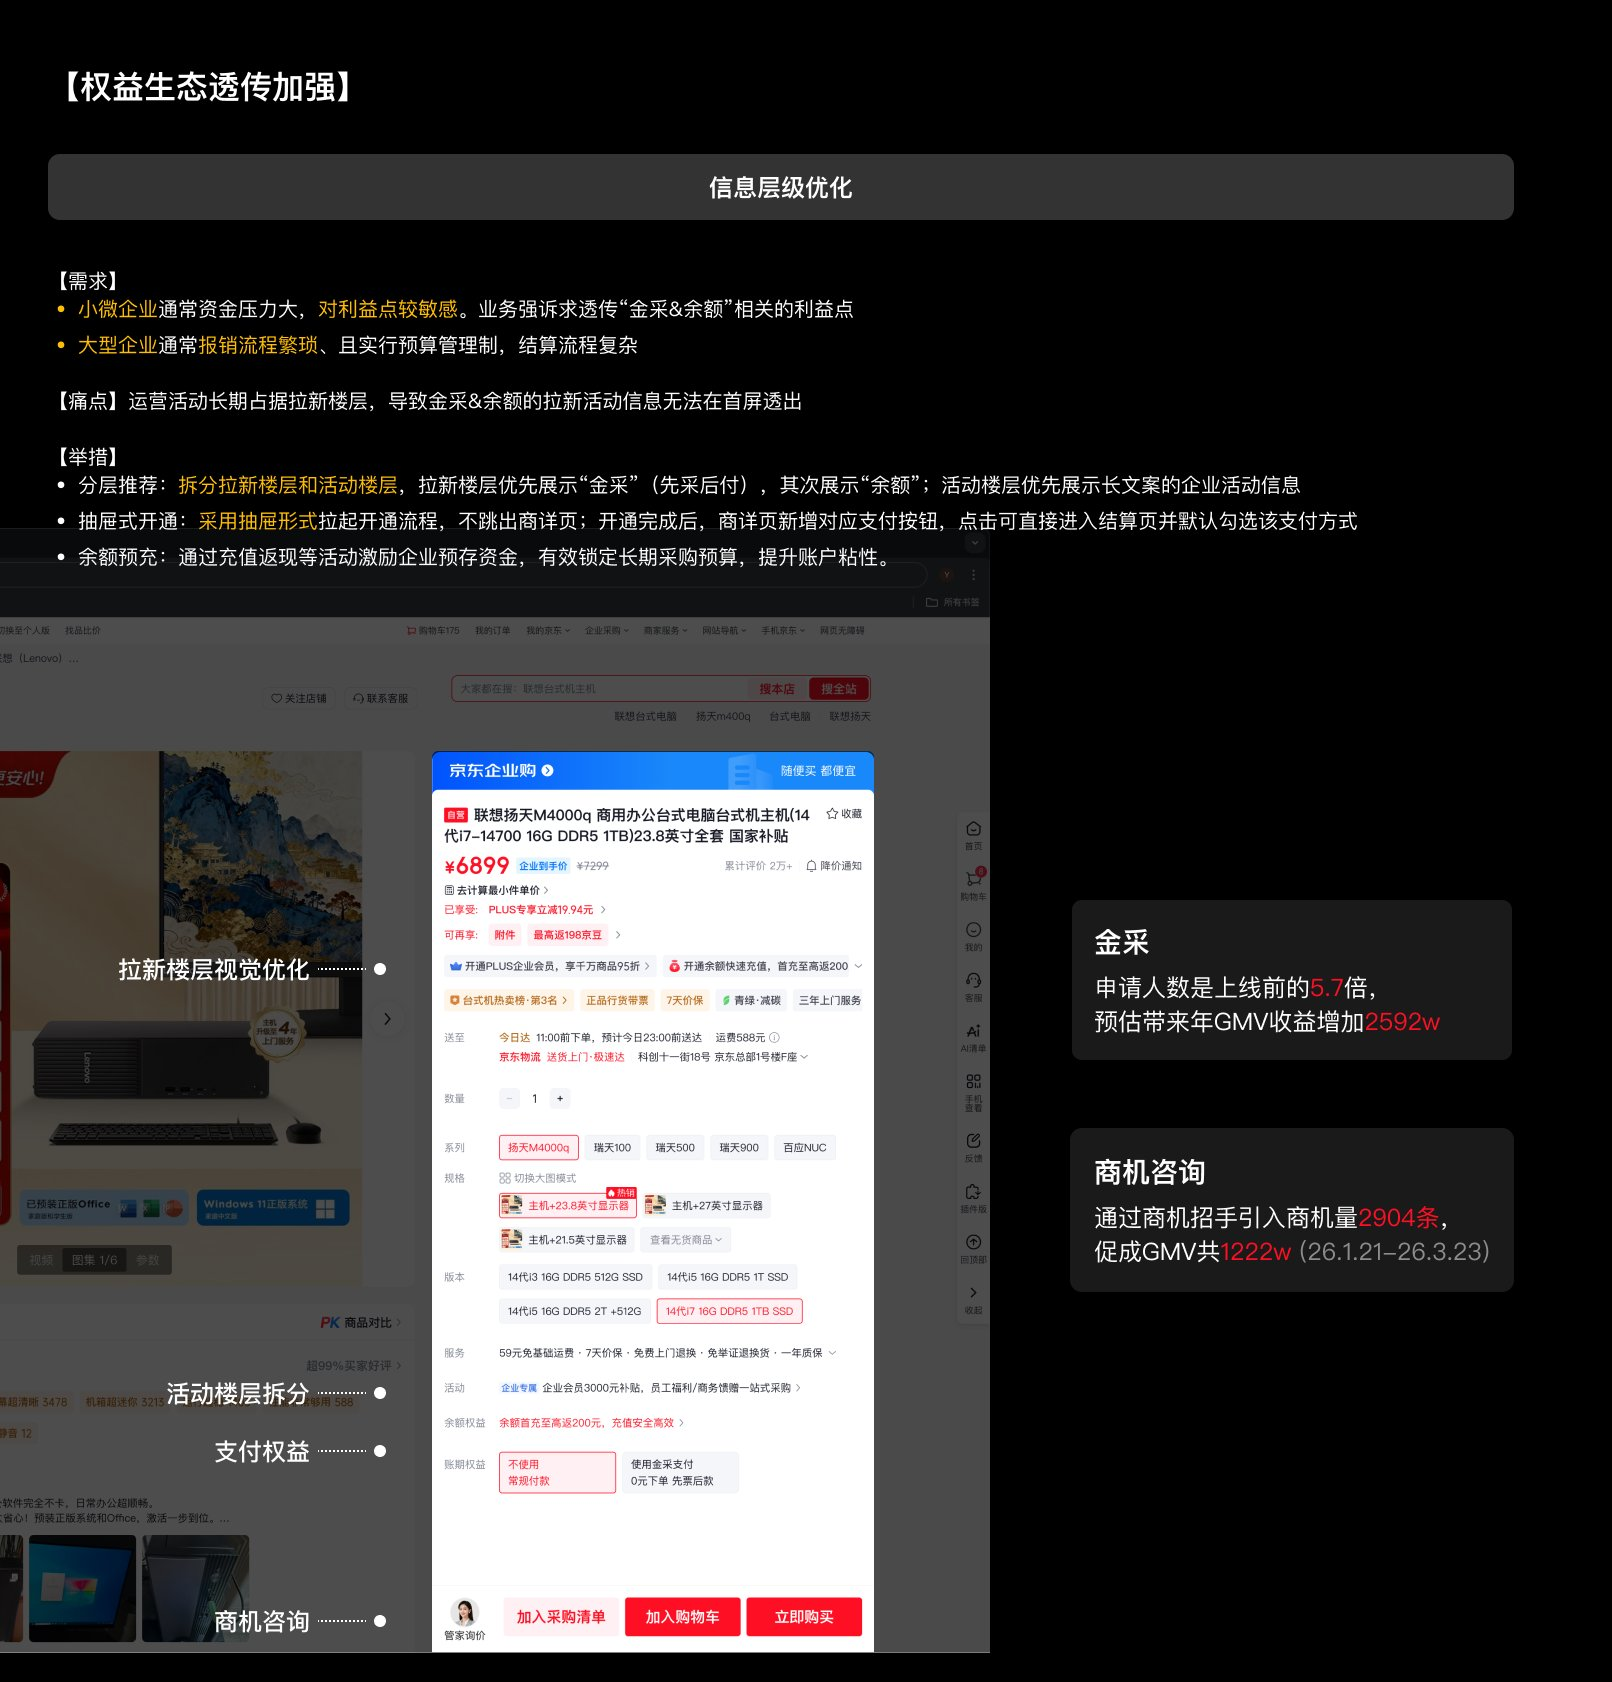
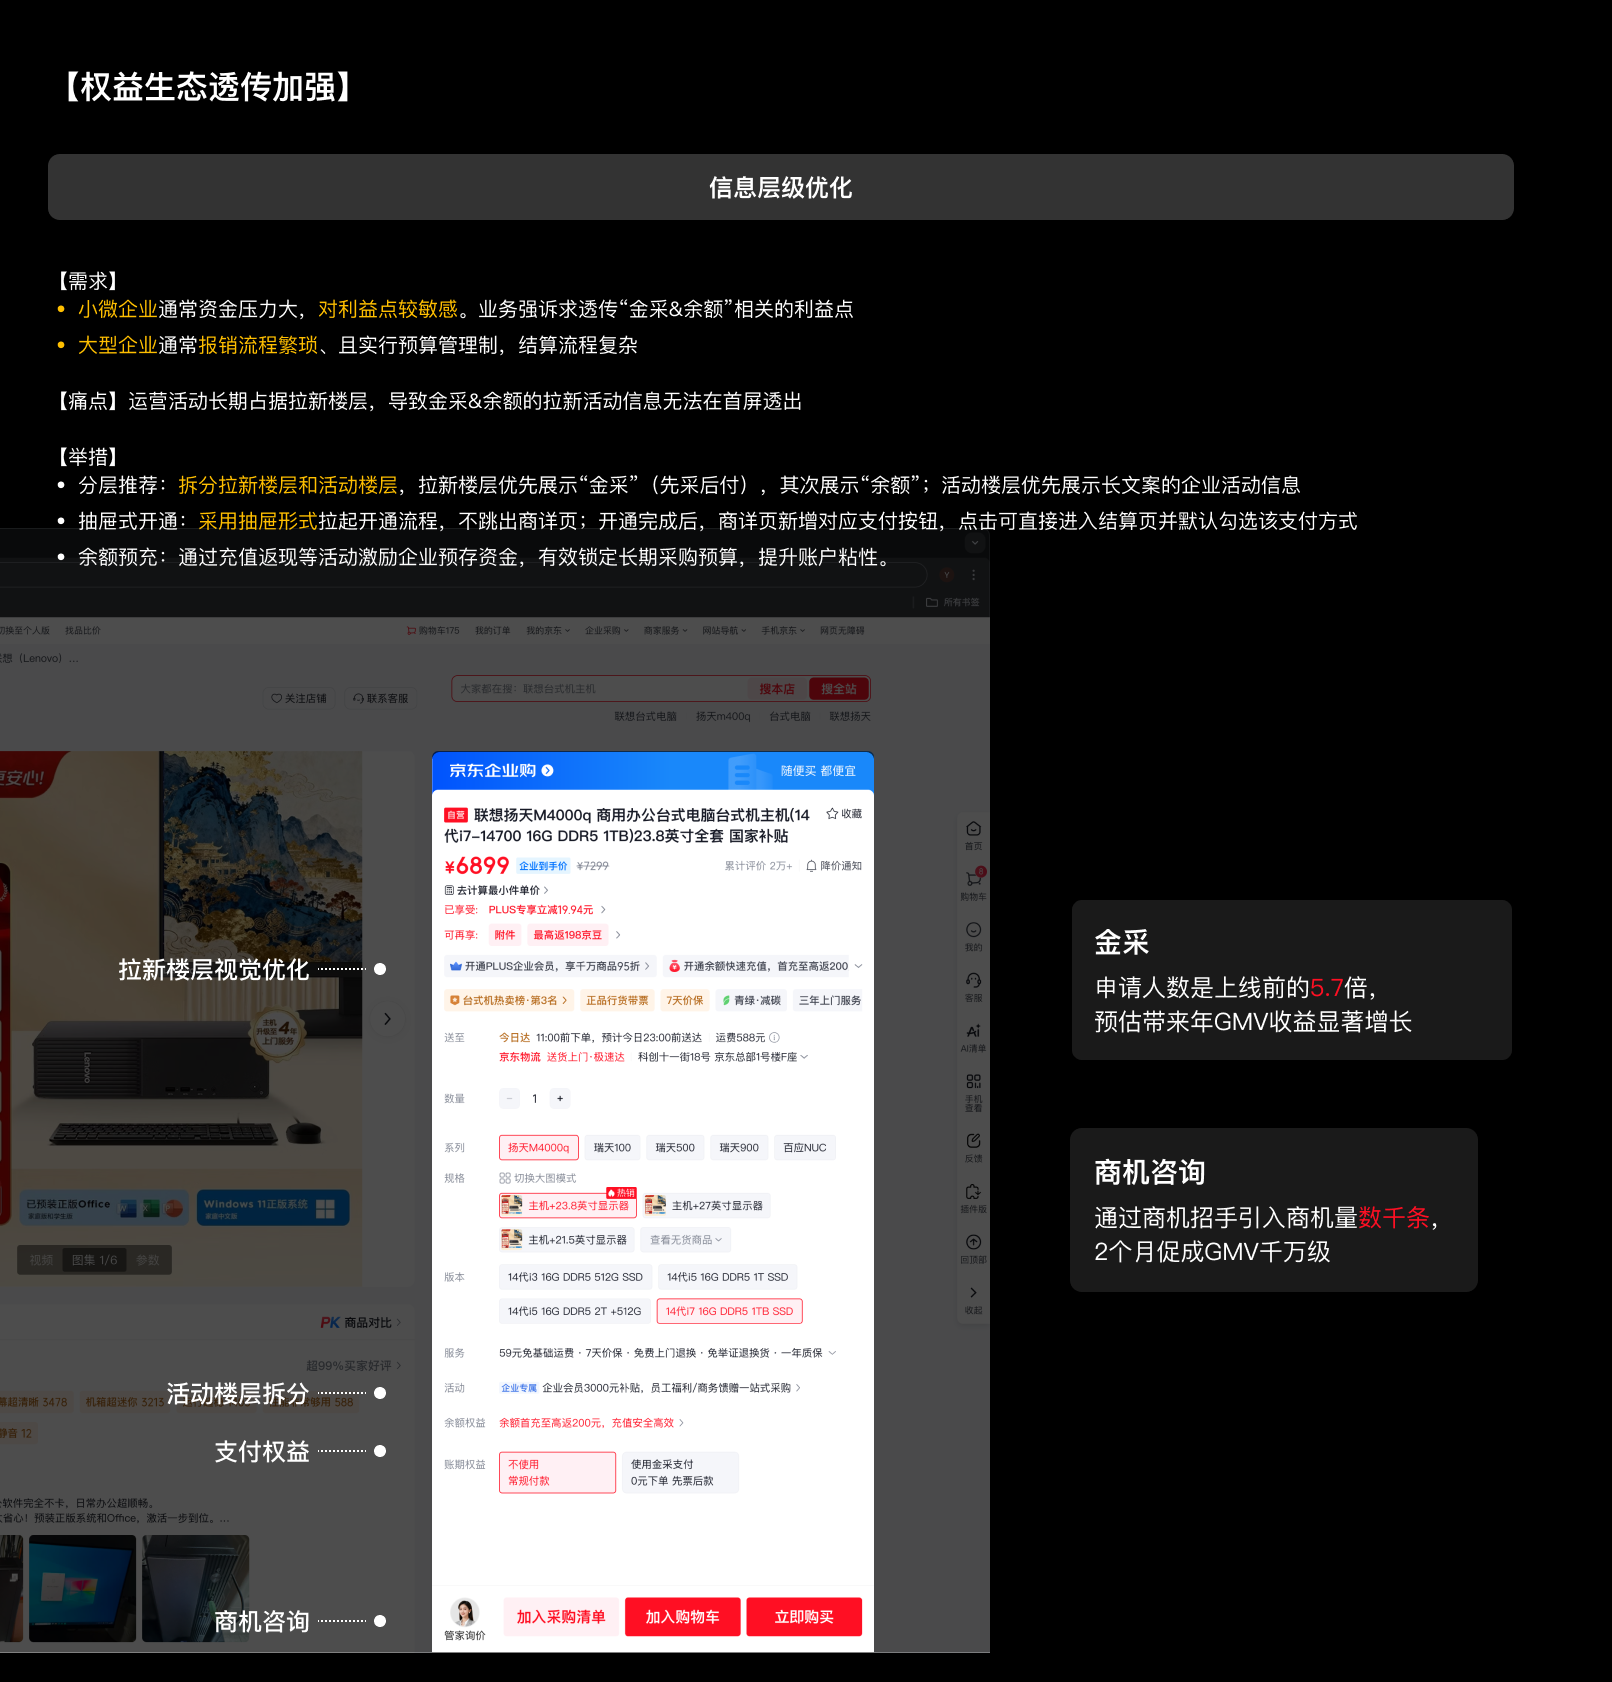
fix: 多项内容与体验优化
- V3关键举措图片容器背景改黑
- 权益生态透传配图替换
- 项目结果去除具体数字，改为模糊表达
- AI改版：APP方案移至PC方案后，加模糊/缩小处理（未上线）
- 组件化「我做了什么」末尾新增AI工具callout
- 隐藏首页PDF下载按钮（nav + hero）
- 全页图片添加 loading=lazy 优化加载

diff --git a/index.html b/index.html
@@ -26,7 +26,6 @@
     <a href="#project-v3">V3.x升级</a>
     <a href="#project-components">组件化</a>
     <a href="#project-powerdrill">Powerdrill</a>
-    <a href="pdf/portfolio.pdf" class="nav-pdf" target="_blank">下载PDF</a>
   </div>
 </nav>
 
@@ -43,7 +42,6 @@
       <div class="stat"><div class="stat-val">46</div><div class="stat-label">半年独立承接需求</div></div>
       <div class="stat"><div class="stat-val">AI驱动</div><div class="stat-label">重点项目原型验证</div></div>
     </div>
-    <a href="pdf/portfolio.pdf" target="_blank" class="hero-pdf-btn">查看完整版作品集 PDF →</a>
   </div>
   <div class="hero-right">
     <div class="toc-label">目录</div>
@@ -138,7 +136,7 @@
       <p>作为商详PC接口人，独立负责商详PC端全线设计（含主站、企业版、全球购）；同时支持APP端和小程序的日常需求与重点项目。半年承接需求46个，主导重点项目4项，参与重点项目1项，自研1项。主动使用AI快速搭建原型demo提效，重点项目中AI原型demo占比75%。</p>
     </div>
     <div class="img-block full" style="margin-top:16px;">
-      <img src="images/01_scope.png" alt="责任场域总览">
+      <img src="images/01_scope.png" alt="责任场域总览" loading="lazy">
       <div class="img-caption">PC端独立负责主站与企业版；APP端参与AI改版、v16.0组件化等重点项目；小程序支持微信Agent接入商详弹层</div>
     </div>
   </div>
@@ -174,22 +172,11 @@
       <div class="result-desc">从「人找货」升级为「货找人」——结合用户身份与行为记忆，动态调整信息展示，主动前置导购建议</div>
     </div>
 
-    <div class="content-heading">APP端设计方案</div>
-
-    <div class="app-note">
-      <span class="app-note-label">我的参与</span>APP端由我参与构建个性化导购触点体系，以下为核心落地方案
-    </div>
-
-    <div class="img-block full">
-      <img src="images/app_ai_design.png" alt="APP AI化设计方案">
-      <div class="img-caption">APP AI化设计方案：主图气泡打标前置核心卖点 · 规格弹层新增AI选款建议 · 东东Agent弹层支持价格走势/商品对比/找相似等能力</div>
-    </div>
-
     <div class="content-heading">PC端设计方案</div>
 
     <!-- 图17：AI策略总图 全宽 -->
     <div class="img-block full">
-      <img src="images/17_ai_strategy.png" alt="PC商详AI化改版策略图">
+      <img src="images/17_ai_strategy.png" alt="PC商详AI化改版策略图" loading="lazy">
       <div class="img-caption">AI改版核心策略：信息展示固化 + 商品信息过载 → 收集用户偏好 · 千人千面 · 推动用户决策</div>
     </div>
 
@@ -208,21 +195,32 @@
 
     <!-- 图18：SKU×记忆系统矩阵 全宽 -->
     <div class="img-block full">
-      <img src="images/18_ai_matrix.png" alt="SKU生命周期×用户记忆系统矩阵">
+      <img src="images/18_ai_matrix.png" alt="SKU生命周期×用户记忆系统矩阵" loading="lazy">
       <div class="img-caption">核心贡献：SKU品生命周期 × 用户记忆系统 双维度AI楼层定位规范（独立产出）</div>
     </div>
 
     <!-- 图19：三场景方案 全宽 -->
     <div class="img-block full">
-      <img src="images/19_ai_scenarios.png" alt="新客/熟客/无货三场景AI设计方案">
+      <img src="images/19_ai_scenarios.png" alt="新客/熟客/无货三场景AI设计方案" loading="lazy">
       <div class="img-caption">三场景差异化设计：新客看新品（基础AI能力）· 熟客看熟品（叠加个性化）· 无货导流（AI搜同款）</div>
     </div>
 
     <div class="content-heading">独立产出：响应式自适应规范</div>
     <!-- 图20：响应式规范 全宽 -->
     <div class="img-block full">
-      <img src="images/20_responsive_spec.png" alt="响应式自适应规范">
+      <img src="images/20_responsive_spec.png" alt="响应式自适应规范" loading="lazy">
       <div class="img-caption">独立产出：PC商详响应式自适应设计规范，历史首次——覆盖内容区与Agent区比例关系、左右面板临界值、主图缩放规则，解决AI Agent分屏场景承接问题</div>
+    </div>
+
+    <div class="content-heading">APP端设计方案</div>
+
+    <div class="app-note">
+      <span class="app-note-label">我的参与</span>APP端方案仍在推进中，以下为核心设计思路（未上线）
+    </div>
+
+    <div class="img-block full app-reveal-blur">
+      <img src="images/app_ai_design.png" alt="APP AI化设计方案" loading="lazy">
+      <div class="img-caption">APP AI化设计方案：主图气泡打标前置核心卖点 · 规格弹层新增AI选款建议 · 东东Agent弹层支持价格走势/商品对比/找相似等能力</div>
     </div>
 
   </div>
@@ -251,7 +249,7 @@
       <p style="margin-top:10px;"><strong>核心痛点：</strong>约三成用户首访即跳出，流量无法承接；商品信息杂乱，能力滞后于APP；V3.0规范未完全沉淀，设研未对齐，落地效率低。</p>
     </div>
     <div class="img-block full">
-      <img src="images/02_pyramid.png" alt="三层能力升级体系">
+      <img src="images/02_pyramid.png" alt="三层能力升级体系" loading="lazy">
       <div class="img-caption">设计框架：以「导购能力→企业能力→分发能力」三层递进结构，系统性补齐PC商详能力短板</div>
     </div>
     <div class="result-bar light">
@@ -267,11 +265,11 @@
     <!-- 图3+4 并排：流量问题分析 + 推品策略 -->
     <div class="img-row">
       <div class="img-block half">
-        <div class="img-wrap"><img src="images/03_traffic_flow.png" alt="分发流量问题分析"></div>
+        <div class="img-wrap"><img src="images/03_traffic_flow.png" alt="分发流量问题分析" loading="lazy"></div>
         <div class="img-caption">问题发现：相当比例用户首访即跳出，商详需承接流量分发中枢角色</div>
       </div>
       <div class="img-block half">
-        <div class="img-wrap"><img src="images/04_cross_strategy.png" alt="用户分类×推品策略矩阵"></div>
+        <div class="img-wrap"><img src="images/04_cross_strategy.png" alt="用户分类×推品策略矩阵" loading="lazy"></div>
         <div class="img-caption">推品策略：探索型/收敛型/搜索型/频道型，四类用户差异化推荐逻辑</div>
       </div>
     </div>
@@ -279,18 +277,18 @@
     <!-- 图5+6 并排：竞品调研 + AI原型验证 -->
     <div class="img-row">
       <div class="img-block half">
-        <div class="img-wrap"><img src="images/05_competitor_research.png" alt="竞品调研与初期方案"></div>
+        <div class="img-wrap"><img src="images/05_competitor_research.png" alt="竞品调研与初期方案" loading="lazy"></div>
         <div class="img-caption">竞品调研：借鉴淘宝沉浸式体验，初期方案探索全屏形态</div>
       </div>
       <div class="img-block half">
-        <div class="img-wrap"><img src="images/06_zero_ai_prototype.png" alt="Zero AI原型快速验证"></div>
+        <div class="img-wrap"><img src="images/06_zero_ai_prototype.png" alt="Zero AI原型快速验证" loading="lazy"></div>
         <div class="img-caption">AI原型验证：Zero快速输出可点击demo，组内试用后否定模态方案</div>
       </div>
     </div>
 
     <!-- 图7 全宽：最终方案 -->
     <div class="img-block full">
-      <div class="img-wrap"><img src="images/07_sidebar_final.png" alt="最终方案：同屏推荐侧边栏"></div>
+      <div class="img-wrap"><img src="images/07_sidebar_final.png" alt="最终方案：同屏推荐侧边栏" loading="lazy"></div>
       <div class="img-caption">最终方案：新增「同屏推荐侧边栏」——商品关键信息直接外露，低转换成本，自然引导多品连续浏览</div>
     </div>
     <div class="decision-note">
@@ -302,34 +300,34 @@
     <!-- 图8+9 并排：企业痛点 + 用户路径 -->
     <div class="img-row">
       <div class="img-block half">
-        <div class="img-wrap"><img src="images/08_enterprise_pain.png" alt="企业能力痛点分析"></div>
+        <div class="img-wrap"><img src="images/08_enterprise_pain.png" alt="企业能力痛点分析" loading="lazy"></div>
         <div class="img-caption">痛点定位：体验缺失 · 支付工具透传不足 · 生态心智弱，三圈交叉问题</div>
       </div>
       <div class="img-block half">
-        <div class="img-wrap"><img src="images/09_user_journey.png" alt="用户路径设计思考"></div>
+        <div class="img-wrap"><img src="images/09_user_journey.png" alt="用户路径设计思考" loading="lazy"></div>
         <div class="img-caption">设计策略：沿吸引→了解→选款→提袋路径，逐步拆解痛点对应举措</div>
       </div>
     </div>
 
     <!-- 图10 全宽：阶梯价+工业说明书 -->
     <div class="img-block full">
-      <div class="img-wrap"><img src="images/10_tiered_price.png" alt="阶梯价与工业说明书"></div>
+      <div class="img-wrap"><img src="images/10_tiered_price.png" alt="阶梯价与工业说明书" loading="lazy"></div>
       <div class="img-caption">特色能力建设：阶梯价可视化（降低B端议价成本）+ 工业说明书专属楼层（降低客服咨询压力）</div>
     </div>
 
     <!-- 图11 全宽：批量采购 before/after -->
     <div class="img-block full">
-      <div class="img-wrap"><img src="images/11_bulk_purchase.png" alt="批量采购Before/After"></div>
+      <div class="img-wrap"><img src="images/11_bulk_purchase.png" alt="批量采购Before/After" loading="lazy"></div>
       <div class="img-caption">采购效率提升：支持同一SPU下多SKU同时选择并一键合并加车，高频重复操作→单次完成</div>
     </div>
 
     <!-- 图12 全宽：权益生态 -->
     <div class="img-block full">
-      <div class="img-wrap"><img src="images/12_rights_ecosystem.png" alt="权益生态透传加强"></div>
+      <div class="img-wrap"><img src="images/12_rights_ecosystem.png" alt="权益生态透传加强" loading="lazy"></div>
       <div class="img-caption">权益生态透传：拆分拉新楼层与活动楼层，金采/余额信息前置；抽屉式开通流程，不跳出商详页</div>
     </div>
     <div class="decision-note">
-      <span class="decision-label">项目结果</span>企业版改版后：用户日活同比增长约4%，用户转化率同比提升约17%，GMV同比增长约35%，订单量同比增长约18%，客单价同比提升约15%。
+      <span class="decision-label">项目结果</span>企业版改版后，GMV、转化率、日活、订单量、客单价均实现同比显著增长，核心指标全面正向。
     </div>
 
     <div class="content-heading">关键举措三 · 导购能力：信息重构</div>
@@ -337,18 +335,18 @@
     <!-- 图13+14 并排：导购现状 + 整体before/after -->
     <div class="img-row">
       <div class="img-block half">
-        <div class="img-wrap"><img src="images/13_guide_before.png" alt="导购现状问题"></div>
+        <div class="img-wrap"><img src="images/13_guide_before.png" alt="导购现状问题" loading="lazy"></div>
         <div class="img-caption">现状问题：首屏样式杂乱，主图缺少结构框架，规格识别度低，优惠信息混乱</div>
       </div>
       <div class="img-block half">
-        <div class="img-wrap"><img src="images/14_before_after.png" alt="整体Before/After对比"></div>
+        <div class="img-wrap"><img src="images/14_before_after.png" alt="整体Before/After对比" loading="lazy"></div>
         <div class="img-caption">改版效果：视觉层级清晰，侧边栏引入，整体信息密度提升，决策路径顺畅</div>
       </div>
     </div>
 
     <!-- 图15 全宽：信息结构重构细节 -->
     <div class="img-block full">
-      <div class="img-wrap"><img src="images/15_info_restructure.png" alt="信息结构重构细节"></div>
+      <div class="img-wrap"><img src="images/15_info_restructure.png" alt="信息结构重构细节" loading="lazy"></div>
       <div class="img-caption">细节升级：主图结构化+参数透出 · 规格大图切换模式 · 预约楼层+腰带样式更新 · 双行内容按钮</div>
     </div>
 
@@ -386,6 +384,7 @@
 
     <div class="project-context">
       <p><strong>我做了什么：</strong>在产研资源紧张、规范缺失的环境下，从0搭建了PC商详完整的设计基础设施——组件库、规范文档、iconfont图标库一手包办，并直接支持研发侧的组件化落地工作。</p>
+      <div class="ai-callout"><span class="ai-callout-tag">持续探索中</span>正在独立开发 AI 需求档案管理工具——让设计师通过自然语言快速检索历史需求、找到关联上下文，告别翻历史稿件的低效方式。细节欢迎面聊。</div>
     </div>
 
     <div class="content-heading">核心挑战</div>
@@ -421,7 +420,7 @@
     </div>
 
     <div class="img-block full" style="margin-top:8px;">
-      <img src="images/16_component_lib.png" alt="组件库与视觉规范展示">
+      <img src="images/16_component_lib.png" alt="组件库与视觉规范展示" loading="lazy">
       <div class="img-caption">成果展示：115+组件 · 2+设计规范 · 团队公共Iconfont库 · 视觉规范新功能引导三级体系</div>
     </div>
 

diff --git a/css/style.css b/css/style.css
@@ -497,6 +497,47 @@ body {
 
 .dark .content-card-text { color: #9097B8; }
 
+/* ── V3 关键举措图片容器深色背景 ── */
+#project-v3 .img-row .img-block.half .img-wrap {
+  background: #0D0E14;
+  border-color: var(--border-dark);
+}
+
+/* ── APP未上线方案：缩小+模糊 ── */
+.app-reveal-blur {
+  max-width: 72%;
+  margin: 0 auto;
+}
+.app-reveal-blur img {
+  filter: blur(3px);
+  opacity: 0.65;
+}
+
+/* ── 组件化 AI callout ── */
+.ai-callout {
+  margin-top: 16px;
+  padding: 14px 20px;
+  background: linear-gradient(90deg, rgba(124,92,246,0.14), rgba(124,92,246,0.05));
+  border-left: 2px solid var(--purple);
+  border-radius: 0 8px 8px 0;
+  font-size: 14px;
+  color: var(--purple-light);
+  line-height: 1.75;
+}
+.ai-callout-tag {
+  display: inline-block;
+  font-size: 11px;
+  font-weight: 600;
+  color: var(--purple);
+  letter-spacing: 0.1em;
+  text-transform: uppercase;
+  background: var(--purple-dim);
+  padding: 2px 8px;
+  border-radius: 3px;
+  margin-right: 10px;
+  vertical-align: middle;
+}
+
 /* ── Hero PDF Button ── */
 .hero-pdf-btn {
   display: inline-flex;